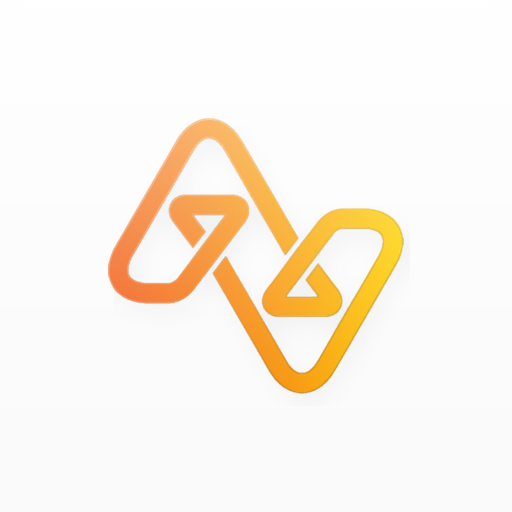
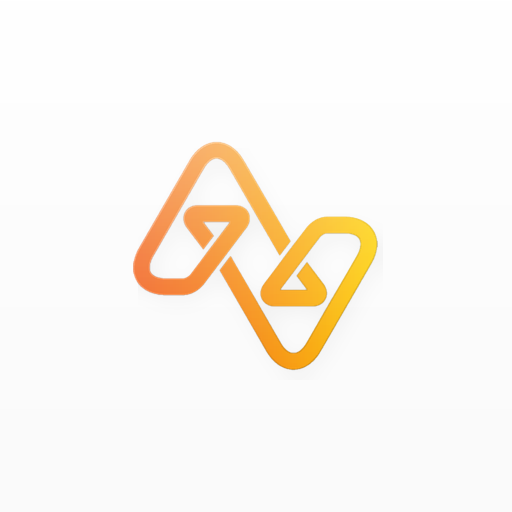
Make Availity mark smaller with clear tile padding.

Changed region(s): [[0.1875, 0.2188, 0.8125, 0.7812]]

diff --git a/src/lib/apps.ts b/src/lib/apps.ts
@@ -31,7 +31,7 @@ export const portalApps: PortalApp[] = [
     href: 'https://essentials.availity.com',
     external: true,
     permission: 'apps:clinical',
-    iconSrc: '/app-icons/availity.png?v=3',
+    iconSrc: '/app-icons/availity.png?v=4',
   },
   {
     id: 'providerexpress',
